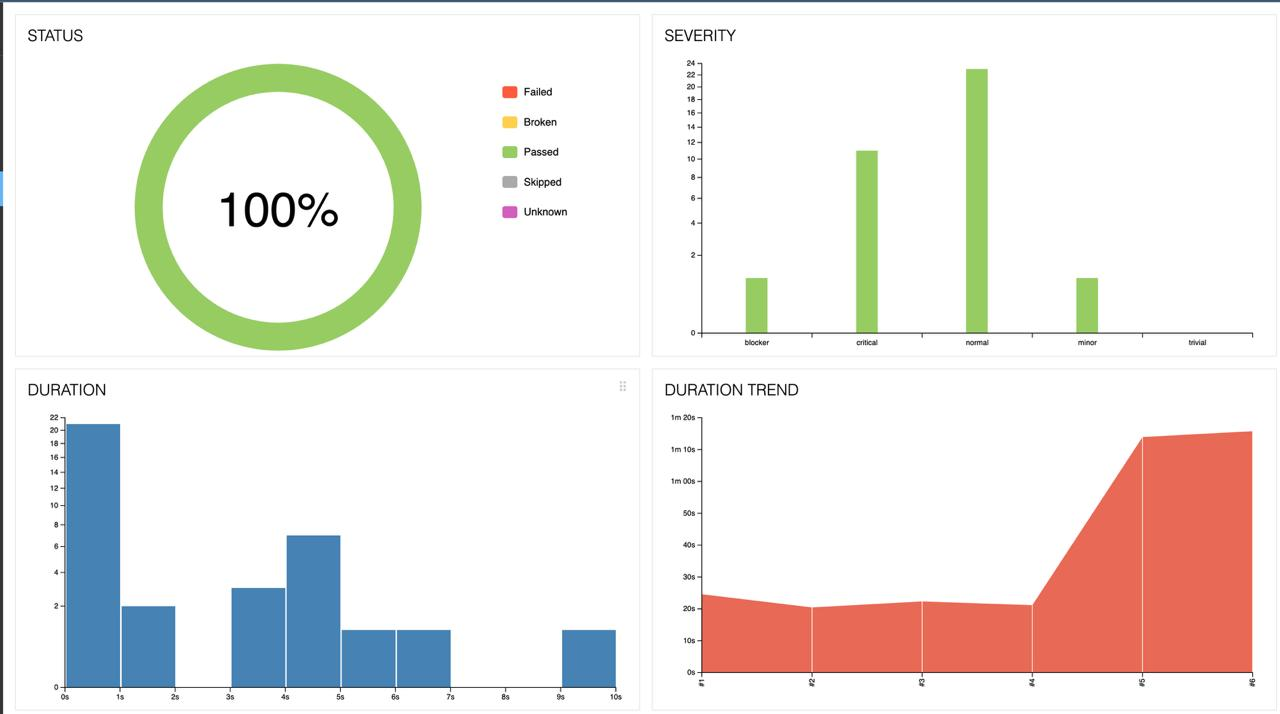
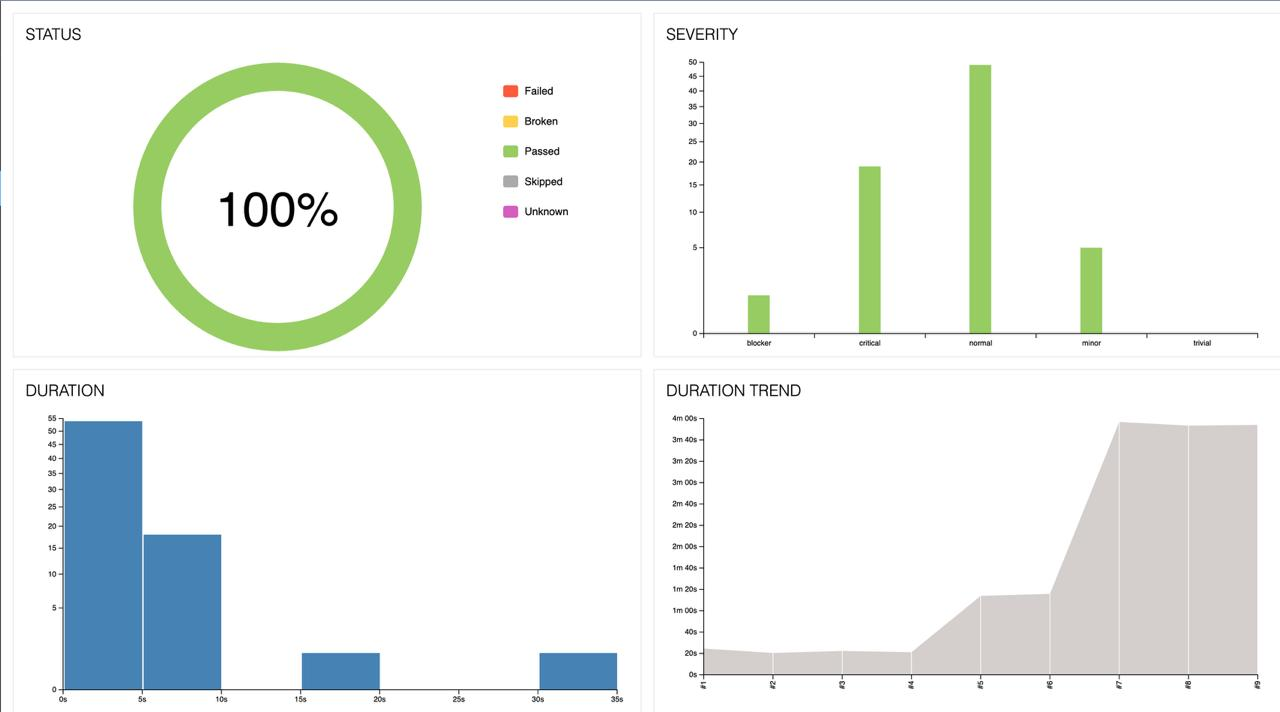
Update README: project structure, router tariffs test, stack; refresh Allure screenshots

diff --git a/README.md b/README.md
@@ -33,18 +33,24 @@ HTTP-запросы и ответы API). Ручные тест-кейсы: [doc
 </p>
 
 - Автотесты написаны на языке `Java 17` с использованием фреймворка [Selenide](https://selenide.org/).
+- API-тесты — [REST Assured](https://rest-assured.io/) (+ `json-schema-validator`), сериализация — `Jackson`, модели — `Lombok`.
+- Проверки — `AssertJ` и встроенные условия Selenide.
 - Сборщик проекта — `Gradle`.
 - Тест-раннер — `JUnit 5` (JUnit Jupiter).
 - Браузер запускается удалённо в [Selenoid](https://aerokube.com/selenoid/).
 - Отчётность — [Allure Report](https://allurereport.org/) (плагин + `aspectjWeaver` для аннотации `@Step`).
 - Применён паттерн **Page Object** с fluent-методами (`return this;`).
 
-**Содержание Allure-отчёта по каждому тесту:**
+**Содержание Allure-отчёта по UI-тесту:**
 * шаги теста;
 * скриншот страницы на последнем шаге;
 * page source;
 * логи браузерной консоли;
 * видео выполнения автотеста (из Selenoid).
+
+**Содержание Allure-отчёта по API-тесту:**
+* шаги теста;
+* HTTP-запрос и ответ (через `CustomAllureListener` и custom-шаблоны `tpl/*.ftl`).
 
 ## 🧪 Что проверяется (тест-кейсы)
 
@@ -66,6 +72,7 @@ HTTP-запросы и ответы API). Ручные тест-кейсы: [doc
 | 4г | `TariffsTests.tabsFromApiShouldOpenTheirPages` | Вкладки «Для роутера» и «Услуги» (из API) открывают свои страницы |
 | 4д | `TariffsTests.archiveButtonShouldOpenArchive` | «Архив тарифов» открывает `/ru/products/archived/tariffs` |
 | 4е | `TariffsTests.socialTariffsGroupShouldExpand` | Группа «Социальные тарифы» раскрывается и показывает тариф из API |
+| 4ж | `TariffsTests.routerTariffsPageShouldBeOpened` | Вкладка «Для роутера» открывает `/ru/products/tariffs/for-routers`: вкладка выбрана, видна группа «Безлимитный интернет для роутера» и первая карточка с содержимым |
 | 5 | `HelpTests.helpTitleFromApiShouldBeDisplayed` | Заголовок из `/api/help` отображается на странице помощи (UI + API) |
 | 5а | `HelpTests.firstCategoryFromApiShouldBeDisplayed` | Название первой категории из `/api/help` отображается на странице помощи (UI + API) |
 | 5б | `HelpTests.searchBlockFromApiShouldBeDisplayed` | Поле поиска («Что ищете?») и быстрые варианты из `/api/help` отображаются на странице помощи (UI + API) |
@@ -245,17 +252,26 @@ allure serve build/allure-results
 ```
 src/test
 ├── java
-│   ├── api                    # вызовы API-эндпоинтов (UiTextsApi, TariffsApi, HelpApi)
-│   ├── models                 # Lombok-модели ответов API
+│   ├── api                    # вызовы API-эндпоинтов (UiTextsApi, TariffsApi, HelpApi, LandingsApi, GlobalSearchApi)
+│   ├── models                 # Lombok-модели запросов и ответов API, сгруппированы по доменам
+│   │   ├── common             # общие: Meta, Pagination, Seo, Localization, CostBlock
+│   │   ├── help               # /api/help
+│   │   ├── tariffs            # /api/tariff-list
+│   │   ├── uitexts            # /api/ui-texts
+│   │   ├── search             # /api/global-search/search
+│   │   ├── payment            # PaymentRequest (только модель тела запроса)
+│   │   └── landings           # /api/beeline-landings/query
+│   │       ├── request        # LandingQueryRequest, LandingFilters, EqFilter, LandingPopulate, RequestPagination
+│   │       └── response       # LandingQueryResponse, LandingPage, LandingComponent, ServiceGroup, ServiceItem
 │   ├── specs
 │   │   └── BaseSpec.java      # RequestSpecification / ResponseSpecification
 │   ├── helpers
 │   │   ├── Attach.java                 # вложения в Allure: скриншот, source, логи, видео
 │   │   └── CustomAllureListener.java   # rest-assured листенер с custom-шаблонами
 │   ├── pages
-│   │   ├── MainPage.java          # главная: header, заголовок
-│   │   ├── TariffsPage.java       # тарифы: заголовок, проверка тарифа по названию
-│   │   ├── HelpPage.java          # помощь: «Как мы можем помочь?»
+│   │   ├── MainPage.java          # главная: header, заголовок, меню, плитки, подвал, личный кабинет
+│   │   ├── TariffsPage.java       # тарифы: карточки, вкладки, архив, группы, кнопки «Подробнее»/«Подключить»
+│   │   ├── HelpPage.java          # помощь: заголовок, категории, поиск и быстрые варианты
 │   │   └── components
 │   │       └── LanguageSwitcher.java   # переключатель языка (kk/ru)
 │   └── tests
@@ -263,7 +279,7 @@ src/test
 │       │   ├── TestBase.java          # конфигурация Selenide/Selenoid + Allure listener (@Tag("ui"))
 │       │   └── MainPageTests / TariffsTests / HelpTests / LanguageSwitchTests
 │       └── api                        # @Tag("api")
-│           └── UiTextsApiTests / TariffListApiTests / HelpApiTests
+│           └── UiTextsApiTests / TariffListApiTests / HelpApiTests / LandingsApiTests / GlobalSearchApiTests / PaymentRequestModelTests
 └── resources
     ├── schemas/ui-texts-schema.json          # JSON-схема ответа
     └── tpl/http-request.ftl, http-response.ftl   # шаблоны вложений Allure
